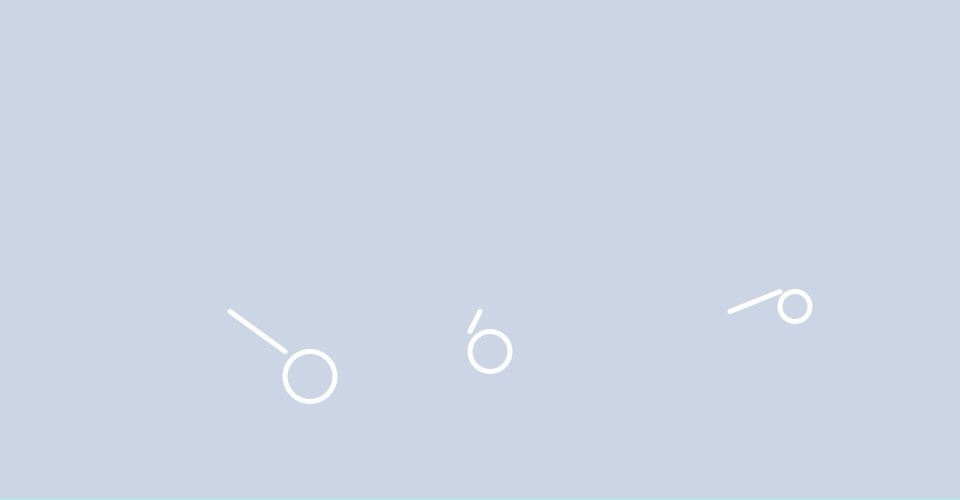
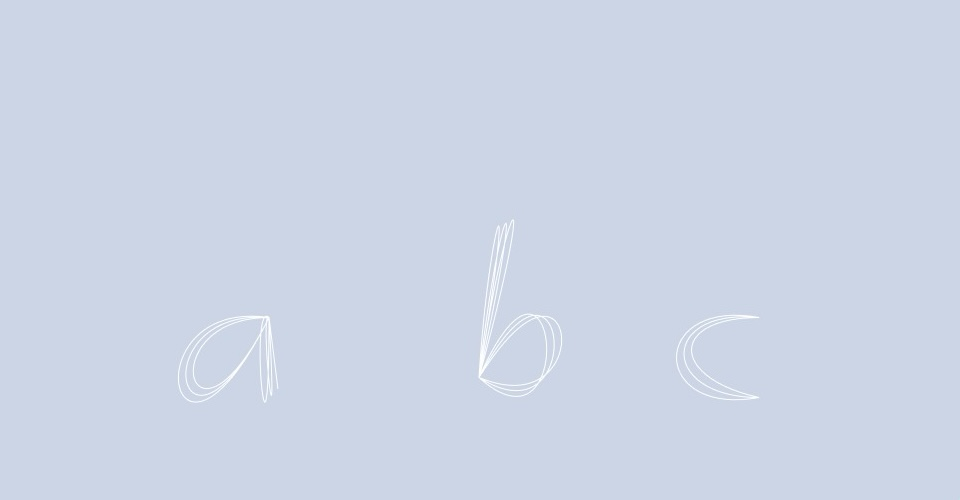
Trying out a sketch idea
I tried out an idea for the sketch, however, too many parameters are used.

diff --git a/sketch.js b/sketch.js
@@ -13,31 +13,71 @@ const canvasHeight = 500;
  */
 
 const letterA = {
-  "size": 40,
-  "offsetx": 55,
-  "offsety": 40,
-  "circle": 50,
+  "firstAnchorX": 40,
+  "firstAnchorY": 0,
+  "firstControlX": -100,
+  "firstControlY": -20,
+  "secondControlX": -60,
+  "secondControlY": 200,
+  "secondAnchorX": 40,
+  "secondAnchorY": 0,
+
+  "stem": true,
+  "twoFirstAnchorX": 40,
+  "twoFirstAnchorY": 0,
+  "twoFirstControlX": 20,
+  "twoFirstControlY": -20,
+  "twoSecondControlX": 40,
+  "twoSecondControlY": 200,
+  "twoSecondAnchorX": 40,
+  "twoSecondAnchorY": 0,
 }
 
 const letterB = {
-  "size": 75,
-  "offsetx": -10,
-  "offsety": 20,
-  "circle": 40,
+  "firstAnchorX": 0,
+  "firstAnchorY": 60,
+  "firstControlX": 80,
+  "firstControlY": -120,
+  "secondControlX": 100,
+  "secondControlY": 150,
+  "secondAnchorX": 0,
+  "secondAnchorY": 60,
+
+  "stem": true,
+  "twoFirstAnchorX": 0,
+  "twoFirstAnchorY": 60,
+  "twoFirstControlX": 40,
+  "twoFirstControlY": -180,
+  "twoSecondControlX": 10,
+  "twoSecondControlY": -100,
+  "twoSecondAnchorX": 0,
+  "twoSecondAnchorY": 60,
 }
 
 const letterC = {
-  "size": 60,
-  "offsetx": 50,
-  "offsety": -20,
-  "circle": 30,
+  "firstAnchorX": 30,
+  "firstAnchorY": 0,
+  "firstControlX": -80,
+  "firstControlY": -20,
+  "secondControlX": -80,
+  "secondControlY": 100,
+  "secondAnchorX": 30,
+  "secondAnchorY": 80,
+  
+  "stem": false,
+  "twoFirstAnchorX": 0,
+  "twoFirstAnchorY": 0,
+  "twoFirstControlX": 0,
+  "twoFirstControlY": 0,
+  "twoSecondControlX": 0,
+  "twoSecondControlY": 0,
+  "twoSecondAnchorX": 0,
+  "twoSecondAnchorY": 0,
 }
 
 const backgroundColor  = "#ccd5e6";
-
-const darkGreen  = "#26b29d";
-const lightGreen  = "#30dfc4";
-const strokeColor  = "#0a2d27";
+const strokeColor = "#ffffff";
+const spacing = 10;
 
 function setup () {
   // create the drawing canvas, save the canvas element
@@ -46,7 +86,8 @@ function setup () {
 
   // color/stroke setup
   stroke(strokeColor);
-  strokeWeight(4);
+  strokeWeight(1);
+  noFill();
 
   // with no animation, redrawing the screen is not necessary
   noLoop();
@@ -67,24 +108,35 @@ function draw () {
 }
 
 function drawLetter(posx, posy, letterData) {
-  // determine parameters for second circle
-  let size2 = letterData["size"];
-  let pos2x = posx + letterData["offsetx"];
-  let pos2y = posy + letterData["offsety"];
-  let circleSize = letterData["circle"];
+  // let spacing = letterData["gap"];
+  let firstBezierAnchorX = posx + letterData["firstAnchorX"];
+  let firstBezierAnchorY = posy + letterData["firstAnchorY"];
+  let firstBezierControlX = posx + letterData["firstControlX"];
+  let firstBezierControlY = posy + letterData["firstControlY"];
+  let secondBezierControlX = posx + letterData["secondControlX"];
+  let secondBezierControlY = posy + letterData["secondControlY"];
+  let secondBezierAnchorX = posx + letterData["secondAnchorX"];
+  let secondBezierAnchorY = posy + letterData["secondAnchorY"];
+ 
+  let twoFirstBezierAnchorX = posx + letterData["twoFirstAnchorX"];
+  let twoFirstBezierAnchorY = posy + letterData["twoFirstAnchorY"];
+  let twoFirstBezierControlX = posx + letterData["twoFirstControlX"];
+  let twoFirstBezierControlY = posy + letterData["twoFirstControlY"];
+  let twoSecondBezierControlX = posx + letterData["twoSecondControlX"];
+  let twoSecondBezierControlY = posy + letterData["twoSecondControlY"];
+  let twoSecondBezierAnchorX = posx + letterData["twoSecondAnchorX"];
+  let twoSecondBezierAnchorY = posy + letterData["twoSecondAnchorY"];
+  let drawStem = letterData["stem"]
 
-  // draw two circles
-  // noStroke()
-  // fill(darkGreen);
-  // ellipse(posx, posy, 150, 150);
-  // fill(lightGreen);
-  noFill();
-  stroke(255);
-  strokeWeight(5);
-  line(posx, posy, pos2x, pos2y);
-  ellipseMode(CORNER);
-  ellipse(pos2x, pos2y, circleSize, circleSize);
-}
+  bezier(firstBezierAnchorX, firstBezierAnchorY, firstBezierControlX, firstBezierControlY, secondBezierControlX, secondBezierControlY, secondBezierAnchorX, secondBezierAnchorY);
+  bezier(firstBezierAnchorX, firstBezierAnchorY, firstBezierControlX + spacing, firstBezierControlY + spacing, secondBezierControlX + spacing, secondBezierControlY - 2 * spacing, secondBezierAnchorX, secondBezierAnchorY);
+  bezier(firstBezierAnchorX, firstBezierAnchorY, firstBezierControlX + 2 * spacing, firstBezierControlY + 2 * spacing, secondBezierControlX + 2 * spacing, secondBezierControlY - 4 * spacing, secondBezierAnchorX, secondBezierAnchorY);
+  if (drawStem == true){
+    bezier(twoFirstBezierAnchorX, twoFirstBezierAnchorY, twoFirstBezierControlX, twoFirstBezierControlY, twoSecondBezierControlX, twoSecondBezierControlY, twoSecondBezierAnchorX, twoSecondBezierAnchorY);
+    bezier(twoFirstBezierAnchorX, twoFirstBezierAnchorY, twoFirstBezierControlX + spacing, twoFirstBezierControlY + spacing, twoSecondBezierControlX + spacing, twoSecondBezierControlY - 2 * spacing, twoSecondBezierAnchorX, twoSecondBezierAnchorY);
+    bezier(twoFirstBezierAnchorX, twoFirstBezierAnchorY, twoFirstBezierControlX + 2 * spacing, twoFirstBezierControlY + 2 * spacing, twoSecondBezierControlX + 2 * spacing, twoSecondBezierControlY - 4 * spacing, twoSecondBezierAnchorX, twoSecondBezierAnchorY);  
+  }
+  }
 
 function keyTyped() {
   if (key == '!') {
